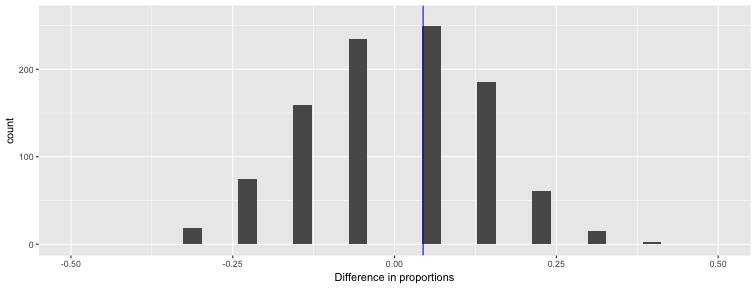
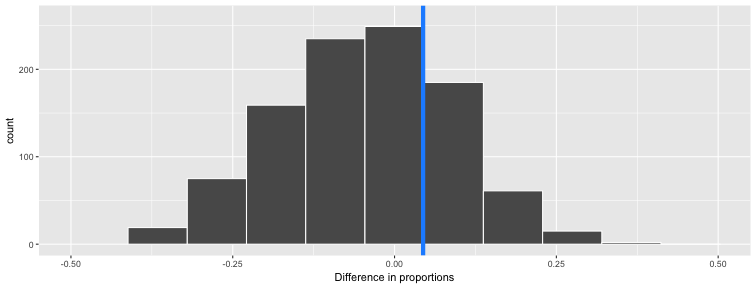
updated infer slides

Changed region(s): [[0.1521, 0.0312, 0.8519, 0.875]]

diff --git a/day_02_inference/inference_slides.html b/day_02_inference/inference_slides.html
@@ -4,7 +4,7 @@
     <title>Tidy Inference in R</title>
     <meta charset="utf-8">
     <meta name="author" content="Alison Hill" />
-    <meta name="date" content="2018-03-07" />
+    <meta name="date" content="2018-03-08" />
     <script src="libs/htmlwidgets/htmlwidgets.js"></script>
     <script src="libs/jquery/jquery.min.js"></script>
     <script src="libs/datatables-binding/datatables.js"></script>
@@ -21,7 +21,7 @@ class: center, middle, inverse, title-slide
 # Tidy Inference in R
 ## Data Science Programming
 ### Alison Hill
-### 2018-03-07
+### 2018-03-08
 
 ---
 
@@ -127,8 +127,8 @@ $ yawn  &lt;fct&gt; 0, 0, 0, 0, 0, 0, 0, 0, 0, 0, 0, 0, 0, 0, 0, 0, 0, 0, 0,...
 ---
 class: middle, center
 
-<div id="htmlwidget-6961f8040de4a514e131" style="width:100%;height:auto;" class="datatables html-widget"></div>
-<script type="application/json" data-for="htmlwidget-6961f8040de4a514e131">{"x":{"filter":"none","data":[["1","2","3","4","5","6","7","8","9","10","11","12","13","14","15","16","17","18","19","20","21","22","23","24","25","26","27","28","29","30","31","32","33","34","35","36","37","38","39","40","41","42","43","44","45","46","47","48","49","50"],[1,2,3,4,5,6,7,8,9,10,11,12,13,14,15,16,17,18,19,20,21,22,23,24,25,26,27,28,29,30,31,32,33,34,35,36,37,38,39,40,41,42,43,44,45,46,47,48,49,50],["control","control","control","control","control","control","control","control","control","control","control","control","seed","seed","seed","seed","seed","seed","seed","seed","seed","seed","seed","seed","seed","seed","seed","seed","seed","seed","seed","seed","seed","seed","seed","seed","control","control","control","control","seed","seed","seed","seed","seed","seed","seed","seed","seed","seed"],["0","0","0","0","0","0","0","0","0","0","0","0","0","0","0","0","0","0","0","0","0","0","0","0","0","0","0","0","0","0","0","0","0","0","0","0","1","1","1","1","1","1","1","1","1","1","1","1","1","1"]],"container":"<table class=\"display\">\n  <thead>\n    <tr>\n      <th> <\/th>\n      <th>subj<\/th>\n      <th>group<\/th>\n      <th>yawn<\/th>\n    <\/tr>\n  <\/thead>\n<\/table>","options":{"pageLength":8,"columnDefs":[{"className":"dt-right","targets":1},{"orderable":false,"targets":0}],"order":[],"autoWidth":false,"orderClasses":false,"lengthMenu":[8,10,25,50,100]}},"evals":[],"jsHooks":[]}</script>
+<div id="htmlwidget-553bb32a38c135d3fb6b" style="width:100%;height:auto;" class="datatables html-widget"></div>
+<script type="application/json" data-for="htmlwidget-553bb32a38c135d3fb6b">{"x":{"filter":"none","data":[["1","2","3","4","5","6","7","8","9","10","11","12","13","14","15","16","17","18","19","20","21","22","23","24","25","26","27","28","29","30","31","32","33","34","35","36","37","38","39","40","41","42","43","44","45","46","47","48","49","50"],[1,2,3,4,5,6,7,8,9,10,11,12,13,14,15,16,17,18,19,20,21,22,23,24,25,26,27,28,29,30,31,32,33,34,35,36,37,38,39,40,41,42,43,44,45,46,47,48,49,50],["control","control","control","control","control","control","control","control","control","control","control","control","seed","seed","seed","seed","seed","seed","seed","seed","seed","seed","seed","seed","seed","seed","seed","seed","seed","seed","seed","seed","seed","seed","seed","seed","control","control","control","control","seed","seed","seed","seed","seed","seed","seed","seed","seed","seed"],["0","0","0","0","0","0","0","0","0","0","0","0","0","0","0","0","0","0","0","0","0","0","0","0","0","0","0","0","0","0","0","0","0","0","0","0","1","1","1","1","1","1","1","1","1","1","1","1","1","1"]],"container":"<table class=\"display\">\n  <thead>\n    <tr>\n      <th> <\/th>\n      <th>subj<\/th>\n      <th>group<\/th>\n      <th>yawn<\/th>\n    <\/tr>\n  <\/thead>\n<\/table>","options":{"pageLength":8,"columnDefs":[{"className":"dt-right","targets":1},{"orderable":false,"targets":0}],"order":[],"autoWidth":false,"orderClasses":false,"lengthMenu":[8,10,25,50,100]}},"evals":[],"jsHooks":[]}</script>
 
 ---
 
@@ -185,7 +185,7 @@ class: inverse, middle, center
 
 `\(H_1\)` (directional): 
 
-&gt; The proportion of people who yawned is greater for those in the seed group than in the control group.
+&gt; More people (relatively) yawned in the seed group than in the control group.
 
 ---
 
@@ -277,7 +277,11 @@ class: inverse, middle, center
 
 --
 
-## Different question: is this difference *significant*?
+## Different question: 
+
+--
+
+## Is this difference *significant*?
 
 ---
 
@@ -335,27 +339,27 @@ class: inverse, center, middle
 
 ```
 # A tibble: 12 x 3
-    subj parallel_group parallel_yawn
-   &lt;int&gt; &lt;fct&gt;          &lt;fct&gt;        
- 1     1 control        0            
- 2     2 control        0            
- 3     3 control        1            
- 4     4 control        0            
- 5     5 control        0            
- 6     6 control        0            
- 7    15 seed           0            
- 8    16 seed           1            
- 9    17 seed           0            
-10    18 seed           0            
-11    19 seed           0            
-12    20 seed           1            
+    subj group   alt_yawn
+   &lt;int&gt; &lt;fct&gt;   &lt;fct&gt;   
+ 1     1 control 0       
+ 2     2 control 0       
+ 3     3 control 1       
+ 4     4 control 0       
+ 5     5 control 0       
+ 6     6 control 0       
+ 7    15 seed    0       
+ 8    16 seed    1       
+ 9    17 seed    0       
+10    18 seed    0       
+11    19 seed    0       
+12    20 seed    1       
 ```
 
 ```
- parallel_group  0  1 Total
-        control 12  4    16
-           seed 24 10    34
-          Total 36 14    50
+   group  0  1 Total
+ control 12  4    16
+    seed 24 10    34
+   Total 36 14    50
 ```
 ]
 
@@ -410,7 +414,6 @@ class: inverse, center, middle
 
 ![](inference_slides_files/figure-html/unnamed-chunk-12-1.png)&lt;!-- --&gt;
 
-What are we looking at? 
 
 The distribution of 1000 differences in proportions, if the null hypothesis were *true* and yawning was not contagious. 
 
@@ -519,13 +522,12 @@ class: inverse, center, middle
 
 # `infer`
 
-- `specify` the response and explanatory variables (`y ~ x`; for proportion also need `success`)
+- `specify` the response and explanatory variables (`y ~ x`)
 - `hypothesize` what the null `\(H_0\)` is (here, `independence` of `y` and `x`)
 - `generate` new samples from parallel universes:
     - Resample from our original data **without replacement**, each time shuffling the `group` (`type = "permute"`)
     - Do this **a ton of times** (`reps = 1000`)
-- `calculate` the *new* statistic (here, difference in proportions) for each `rep`
-- `visualize` the output
+- `calculate` the *new* statistic (`stat = "diff in props"`) for each `rep`
 
 
 
@@ -540,23 +542,28 @@ null_distn &lt;- yawn_myth %&gt;%
 
 ---
 
-# Plot the null distribution
+# Visualize the null distribution
+
+- `visualize` the distribution of the `stat` (here, `diff in props`)
+
+![](inference_slides_files/figure-html/unnamed-chunk-16-1.png)&lt;!-- --&gt;
+
 
 
 ```r
-ggplot(null_distn, aes(stat)) +
-  geom_histogram() +
-  geom_vline(xintercept = obs_diff, color = "blue") +
-  labs(x = "Difference in proportions")
+visualize(null_distn, bins = 10) +
+  geom_vline(xintercept = obs_diff, 
+             color = "dodgerblue",
+             size = 2) 
 ```
 
-![](inference_slides_files/figure-html/unnamed-chunk-16-1.png)&lt;!-- --&gt;
+
 
 ---
 
 # Classical inference
 
-Relies on theory to tell us what the null distribution looks like. 
+Rely on theory to tell us what the null distribution looks like. 
 
 
 ```r
@@ -565,16 +572,17 @@ yawn_myth %&gt;%
   hypothesize(null = "independence") %&gt;% 
   # generate() is not needed since we are not doing randomization
   # calculate(stat = "z") is implied based on variable types
-  visualize(method = "theoretical")
+  visualize(method = "theoretical")  +
+  geom_vline(xintercept = obs_diff, color = "dodgerblue", size = 2) 
 ```
 
-![](inference_slides_files/figure-html/unnamed-chunk-17-1.png)&lt;!-- --&gt;
+![](inference_slides_files/figure-html/unnamed-chunk-18-1.png)&lt;!-- --&gt;
 
 
 ---
 # Classical vs resampling
 
-I changed the `stat` to calculate to `z` now (before we did `diff in props`). 
+Changed the `stat` to calculate to `z` now (before we did `diff in props`). 
 
 
 ```r
@@ -583,10 +591,11 @@ yawn_myth %&gt;%
   hypothesize(null = "independence") %&gt;% 
   generate(reps = 1000, type = "permute") %&gt;% 
   calculate(stat = "z", order = c("seed", "control")) %&gt;% 
-  visualize(method = "both")
+  visualize(method = "both", bins = 10) +
+  geom_vline(xintercept = obs_diff, color = "dodgerblue", size = 2) 
 ```
 
-![](inference_slides_files/figure-html/unnamed-chunk-18-1.png)&lt;!-- --&gt;
+![](inference_slides_files/figure-html/unnamed-chunk-19-1.png)&lt;!-- --&gt;
 
 ---
 
@@ -595,10 +604,8 @@ yawn_myth %&gt;%
 
 ```r
 yawn_table &lt;- table(group, yawn)
-yz &lt;- prop.test(x = yawn_table,
-          n = nrow(yawn_myth),
-          alternative = "greater",
-          correct = FALSE) 
+yz &lt;- prop.test(x = yawn_table, n = nrow(yawn_myth),
+          alternative = "greater", correct = FALSE) 
 yz
 ```
 
@@ -617,9 +624,22 @@ sample estimates:
 0.7500000 0.7058824 
 ```
 
+--
+
+What does this test assume?
+
 ---
 
 # In class exercise
+
+- Read in the `mazes` data (http://bit.ly/mazes-gist)
+
+- Use `dplyr::filter` to include only two groups (`dx`).
+
+- Use `infer` to compare a numerical variable between the two groups using:
+    - A permutation test and
+    - A classical theoretical test.
+
 ---
 
 class: center, middle
@@ -627,8 +647,6 @@ class: center, middle
 # Thanks!
 
 Slides created via the R package [**xaringan**](https://github.com/yihui/xaringan).
-
-The chakra comes from [remark.js](https://remarkjs.com), [**knitr**](http://yihui.name/knitr), and [R Markdown](https://rmarkdown.rstudio.com).
     </textarea>
 <script src="https://remarkjs.com/downloads/remark-latest.min.js"></script>
 <script>var slideshow = remark.create({

diff --git a/day_02_inference/ohsu.css b/day_02_inference/ohsu.css
@@ -30,7 +30,7 @@ color: #3498CC;
 }
 
 .remark-code-line-highlighted     { 
-  background-color: rgba(086, 177, 070, 0.8); 
+  background-color: rgba(052, 152, 204, 0.4); 
   
 }
 
